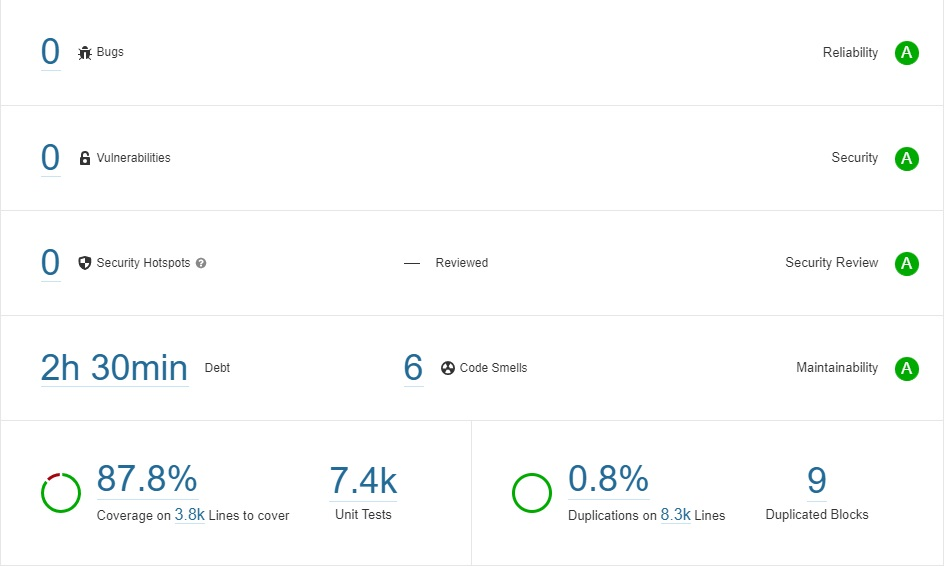
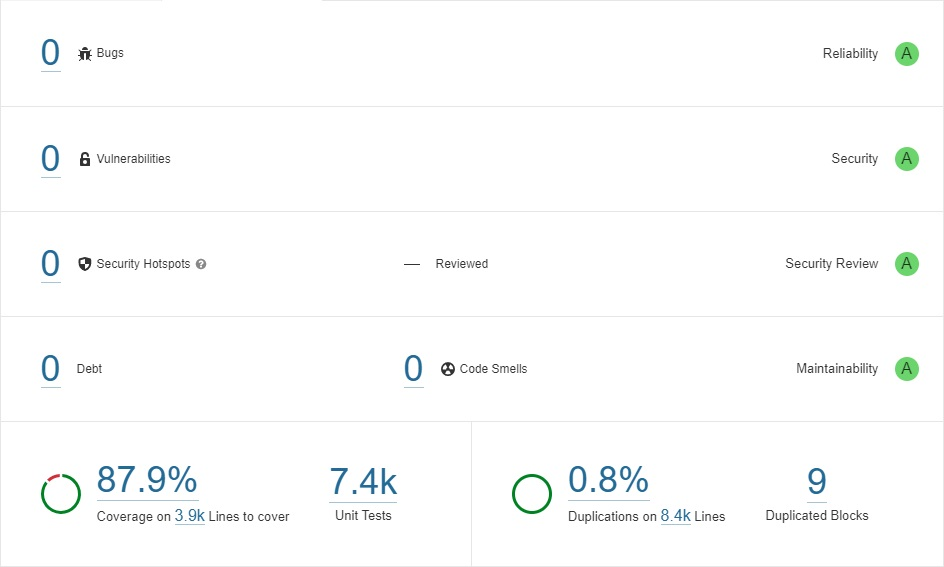
Update README.md

diff --git a/README.md b/README.md
@@ -33,17 +33,15 @@ We strive for excellent code quality to minimize the risk of bugs and vulnerabil
 
 ### SonarQube Analysis
 
-We parametrize SonarQube with the built-in Sonar way quality profile. The SonarQube analysis of the crypto-primitives code reveals 0 bugs, 0 vulnerabilities, 0 security hotspots, and 6 code smells.
+We parametrize SonarQube with the built-in Sonar way quality profile. The SonarQube analysis of the crypto-primitives code reveals 0 bugs, 0 vulnerabilities, 0 security hotspots, and 0 code smells.
 
 ![SonarQube](SonarQube.jpg)
-
-The 6 code smells concern duplicated blocks in the argument and proof classes. We left the code blocks as is since removing them reduces the code's readability.
 
 Moreover, a high test coverage illustrates the fact that we extensively test the crypto-primitives library.
 
 ### Fortify Analysis
 
-The Fortify analysis showed 0 critical, 1 high, 0 medium, and 62 low criticality issues. We manually reviewed all 63 issues and assessed them as false positives.
+The Fortify analysis showed 0 critical, 2 high, 0 medium, and 62 low criticality issues. We manually reviewed all 64 issues and assessed them as false positives.
 
 ### JFrog X-Ray Analysis
 
